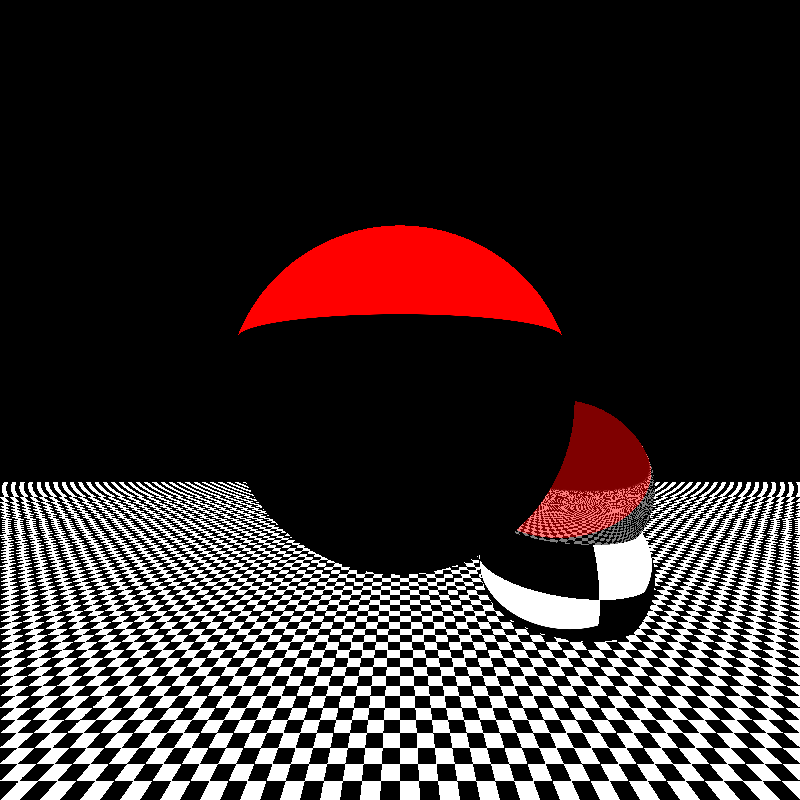
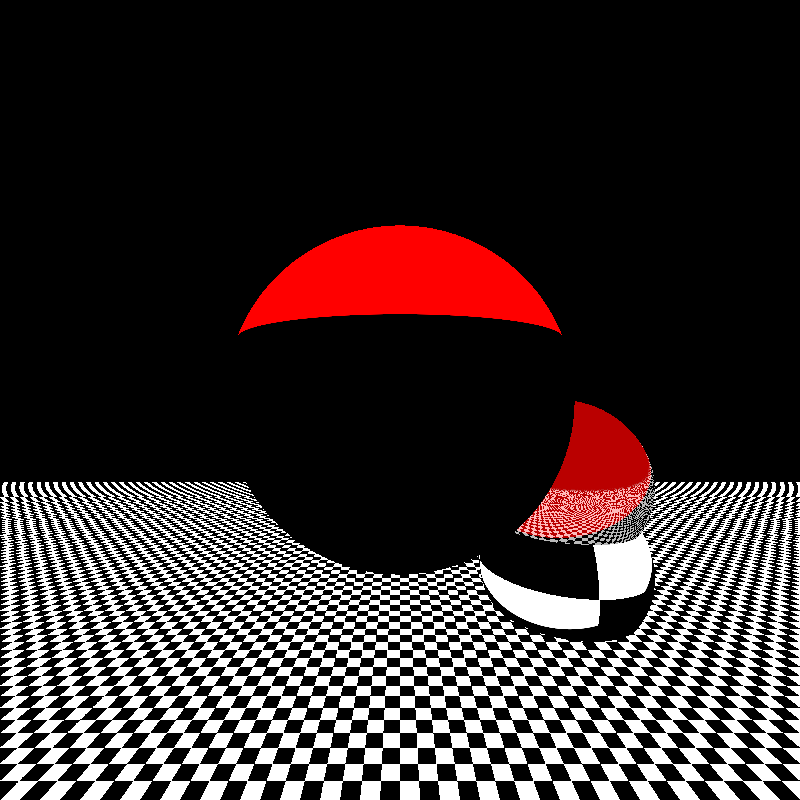
añadido raytracer a partir de json

Changed region(s): [[0.6562, 0.5, 0.8125, 0.6875]]

diff --git a/src/objects.rs b/src/objects.rs
@@ -15,7 +15,6 @@ use serde::{Serialize, Deserialize};
 pub struct Ray{
     pub punto: Point3D,
     pub direccion: Vector3D,
-    //pub intensidad: f64,
 }
 impl Ray{
     #[inline]
@@ -56,25 +55,33 @@ impl Ray{
             )
     }
     pub fn refraction(&self,scene: &Scene,surface_normal: &Vector3D, index: f64, hit_point: &Point3D)->Option<Ray>{
-        //Ley de Snell: ni * sen(theta_i) = nt * sen(theta_t)
-        let n;
-        let incidente = self.direccion.clone().normalize();
-        let mut normal = surface_normal.clone().normalize();
-        let mut dot_product = incidente.dot_product(&normal);
-        if dot_product < 0.0{
-            dot_product *=-1.0;
-            n = scene.indice_refraccion_medio / index;
-        }else{
-            normal = -1.0 * normal;
-            n = index/scene.indice_refraccion_medio;
+        let intersection = hit_point;
+        let normal = surface_normal.clone().normalize();
+        let mut ref_n = normal.clone();
+        let mut eta_t = index;
+        let incident = self.direccion.clone().normalize();
+        let mut eta_i = scene.indice_refraccion_medio;
+        let mut i_dot_n = incident.dot_product(&normal);
+        if i_dot_n < 0.0 {
+            //Outside the surface
+            i_dot_n = -i_dot_n;
+        } else {
+            //Inside the surface; invert the normal and swap the indices of refraction
+            ref_n = -1.0 * normal;
+            eta_t = scene.indice_refraccion_medio;
+            eta_i = index;
         }
-        
-        let argumento_sqrt = 1.0- (n*n * (1.0 -dot_product * dot_product) );
-        if argumento_sqrt < 0.0{
-            return None;
+
+        let eta = eta_i / eta_t;
+        let k = 1.0 - (eta * eta) * (1.0 - i_dot_n * i_dot_n);
+        if k < 0.0 {
+            None
+        } else {
+            Some(Ray {
+                punto: intersection.clone() + (ref_n.clone() * -scene.shadow_bias).into_point(),
+                direccion: (incident + i_dot_n * ref_n.clone()) * eta - ref_n * k.sqrt(),
+            })
         }
-        let transmitido = n * incidente.clone() + (n * dot_product-argumento_sqrt.sqrt())*normal.clone();
-        Some(Ray::new(hit_point.clone() + (normal * scene.shadow_bias).into_point(),transmitido))
     }
 }
 // LA IDEA ES ELIMINARLO CUANDO SEA MAS VIABLE TRABAJAR CON TRAIT OBJECTS, QUE VUELVA A COMO AL COMIENZO
@@ -158,7 +165,6 @@ pub enum Light{
     Directional(DirectionalLight),
     Spherical(SphericalLight),
 }
-
 pub trait SceneObject{
     ///Returns the intersection point
     fn intersection_point(&self,ray:&Ray)->Option<Point3D>;

diff --git a/src/lib.rs b/src/lib.rs
@@ -30,7 +30,7 @@ pub enum Nthreads{
     Defined(usize),
 }
 impl Scene{
-    ///Creates a new scene with the source of light in the sky, above the camera. By default, it's rendering in a low definition
+    ///Creates a new scene with the source of light in the sky, above the camera. By default, it's rendering in a low definition and uses the number of processor's logical cores as the number of threads
     #[inline]
     pub fn new()->Self{
         Scene{
@@ -232,14 +232,14 @@ mod tests{
         escena.color_de_fondo = Color::from_rgb(135, 206, 235);
         escena.widht = 800;
         escena.height = 800;
-        escena.lights.push(Light::Directional(DirectionalLight::new_values(Color::new_white(),Vector3D::new(0.5, -1.0, 0.25),20.0)));
+        escena.lights.push(Light::Directional(DirectionalLight::new_values(Color::new_white(),Vector3D::new(0.5, -1.0, 0.25),200.0)));
         escena.objects_list.push(Object::Sphere(Sphere::new(
             Point3D::new(0.0, 0.0, -5.0),
             2.0,
             Material::new( 
-                Texture::SolidColor(Color::new(1.0,0.0,0.0)),
+                Texture::SolidColor(Color::new(1.05,0.0,0.0)),
                 0.5,
-                MaterialType::Refractive{refraction_index: 1.5,transparency:0.6}
+                MaterialType::Refractive{refraction_index: 1.1,transparency:0.6}
             )
         )));
         escena.objects_list.push(Object::Plane(Plane::new(
@@ -248,7 +248,7 @@ mod tests{
             Material::new( 
                 Texture::SolidColor(Color::new(0.9,0.9,0.9)),
                 0.5,
-                MaterialType::Refractive{refraction_index: 1.8,transparency: 0.6},
+                MaterialType::Refractive{refraction_index: 1.02,transparency: 0.8},
             )
         )));
         escena.objects_list.push(Object::Plane(Plane::new(

diff --git a/src/color.rs b/src/color.rs
@@ -1,11 +1,20 @@
 use std::ops;
 use image::{Rgba,Pixel};
 use serde::{Serialize, Deserialize};
+const GAMMA_CORRCTION_VALUE:f64 = 2.2;
 #[derive(Clone,Debug,Serialize,Deserialize)]
 pub struct Color{
     pub red: f64, //Quizás no sea necesario que sea un f32, evaluar después
     pub green: f64,
     pub blue: f64,
+}
+#[inline]
+fn gamma_decode(linear:f64)->f64{
+    linear.powf(GAMMA_CORRCTION_VALUE)
+}
+#[inline]
+fn gamma_encode(linear:f64)->f64{
+    linear.powf(1.0 / GAMMA_CORRCTION_VALUE)   
 }
 impl Color{
     #[inline]
@@ -23,7 +32,7 @@ impl Color{
     #[inline]
     pub fn to_rgb(mut self)->(u8,u8,u8){
         self.clamp();
-        ((self.red * 255.0) as u8,(self.green * 255.0) as u8,(self.blue * 255.0) as u8)
+        ((gamma_encode(self.red) * 255.0) as u8,(gamma_encode(self.green) * 255.0) as u8,(gamma_encode(self.blue) * 255.0) as u8)
     }
     #[inline]
     pub fn to_r(&self)->u8{
@@ -66,7 +75,7 @@ impl Color{
     }
     #[inline]
     pub fn from_rgba(rgba: Rgba<u8>)->Self{
-        Color::new(rgba[0] as f64 / 255.0, rgba[1] as f64 / 255.0, rgba[2] as f64 / 255.0)
+        Color::new(gamma_decode(rgba[0] as f64 / 255.0), gamma_decode(rgba[1] as f64 / 255.0), gamma_decode(rgba[2] as f64 / 255.0))
     }
 }
 impl ops::Mul for Color{

diff --git a/raytracer/src/main.rs b/raytracer/src/main.rs
@@ -1,0 +1,9 @@
+fn main() {
+    println!("Ingrese el la ruta del archivo json con la escena a parsear y la ruta del archivo destino separados por un enter");
+    let mut json = String::new();
+    let mut destino = String::new();
+    std::io::stdin().read_line(&mut json).unwrap();
+    std::io::stdin().read_line(&mut destino).unwrap();
+    let escena: raytracerlib::Scene = serde_json::from_str(&std::fs::read_to_string(json.trim_end()).unwrap()).unwrap();
+    escena.render().save(destino.trim_end()).unwrap();
+}
